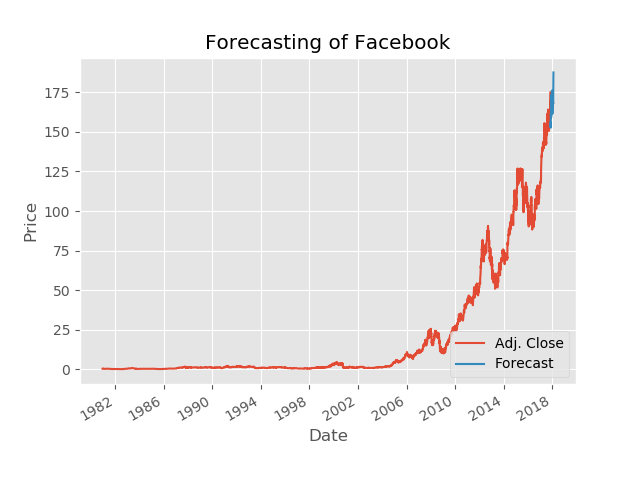
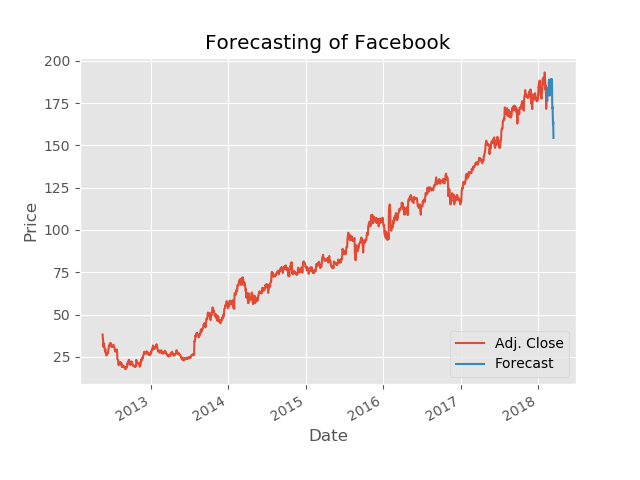
big error removed

diff --git a/simple_regression.py b/simple_regression.py
@@ -2,12 +2,26 @@ from statistics import mean
 import numpy as np
 import matplotlib.pyplot as plt
 from matplotlib import style
+import random
 
 style.use('fivethirtyeight')
 
 x = np.array([1,2,3,4,5,6],dtype=np.float64)
 y = np.array([5,4,6,5,6,7],dtype=np.float64)
 
+def create_dataset(n, variance, step=2, correlation='pos'):
+    val = 1
+    y = []
+    for i in range(n):
+        y.append(  val + random.randrange(-variance, variance)  )
+        if correlation and correlation == 'pos':
+            val += step
+        elif correlation and correlation == 'neg':
+            val -= step
+
+    x = [i for i in range(len(y))]
+    return np.array(x , dtype=np.float64), np.array(y , dtype=np.float64)
+    
 def m_b(x,y):
     m = ((mean(x)*mean(y)) - mean(x*y)) / ((mean(x)**2) - mean(x**2))
     b = mean(y)-m*mean(x)
@@ -21,6 +35,8 @@ def coefficient_of_determination(y,y_):
     squared_error_y_mean = squared_error(y, mean(y) )
     return 1 - (squared_error_y_reg/squared_error_y_mean)
 
+#x,y = create_dataset(40, 80, 2, correlation=False)
+    
 m,b= m_b(x,y)
 y_ = m*x + b
 
@@ -29,7 +45,8 @@ prediction_x = 6.5
 prediction_y = m*prediction_x + b
 
 r_squared = coefficient_of_determination(y,y_)
-print(r_squared)
+print("Accuracy %s"%r_squared)
+
 plt.scatter(x,y, label='real data points', color='r')
 plt.scatter(prediction_x,prediction_y, label='single prediction', color='g')
 plt.plot(x,y_, label='prediction line(y_hat)')
@@ -43,6 +60,7 @@ plt.savefig('pics/simple_linear_regression1.png')
 plt.show()
 
 
+# error line plotting
 plt.scatter(x,y, label='real data points', color='r')
 plt.plot(x,y_, label='prediction line')
 i=0

diff --git a/regression.py b/regression.py
@@ -32,8 +32,9 @@ df['label'] = df[forecast_col].shift(-forecast_out)
 
 X = np.array(df.drop(['label'],1))
 X = preprocessing.scale(X)
-X = X[:-forecast_out]
 X_lately = X[-forecast_out:]
+X = X[:-forecast_out]
+
 
 df.dropna(inplace=True)
 y = np.array(df['label'])
